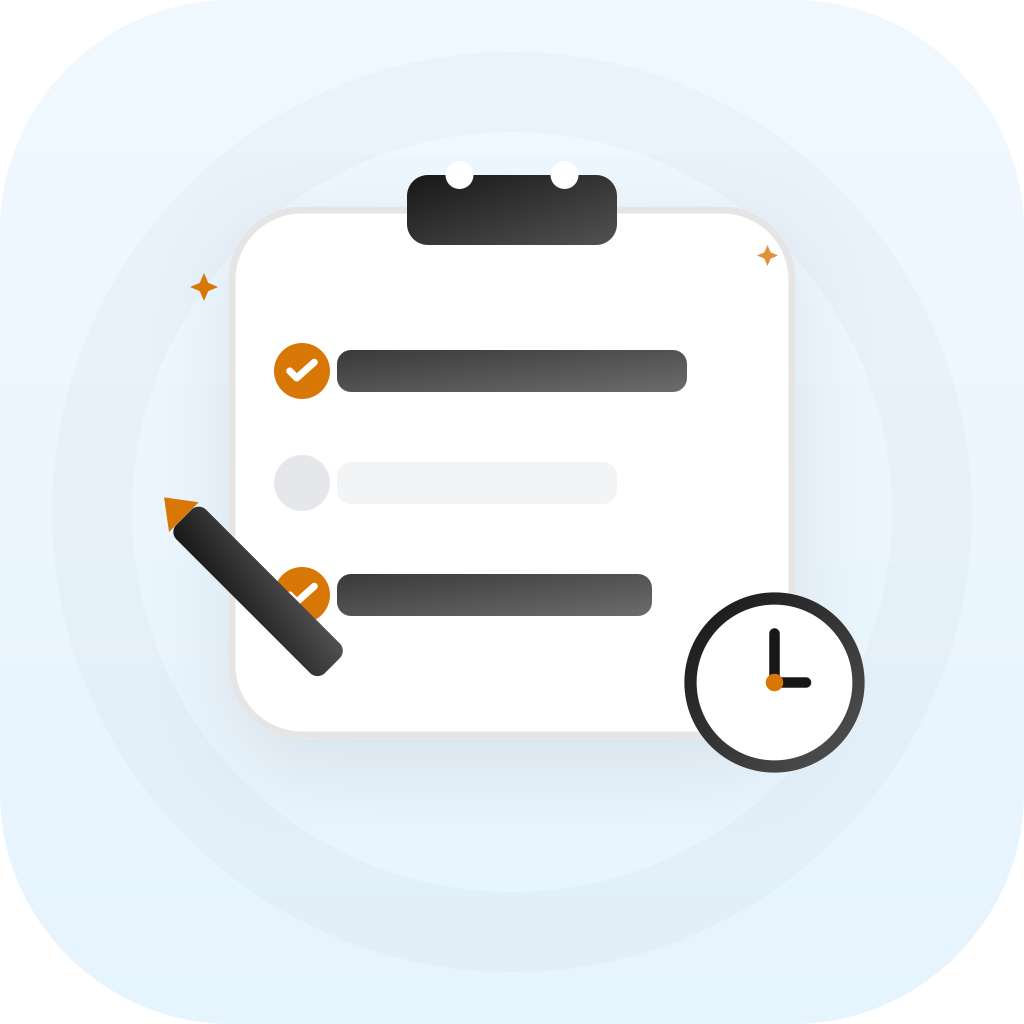
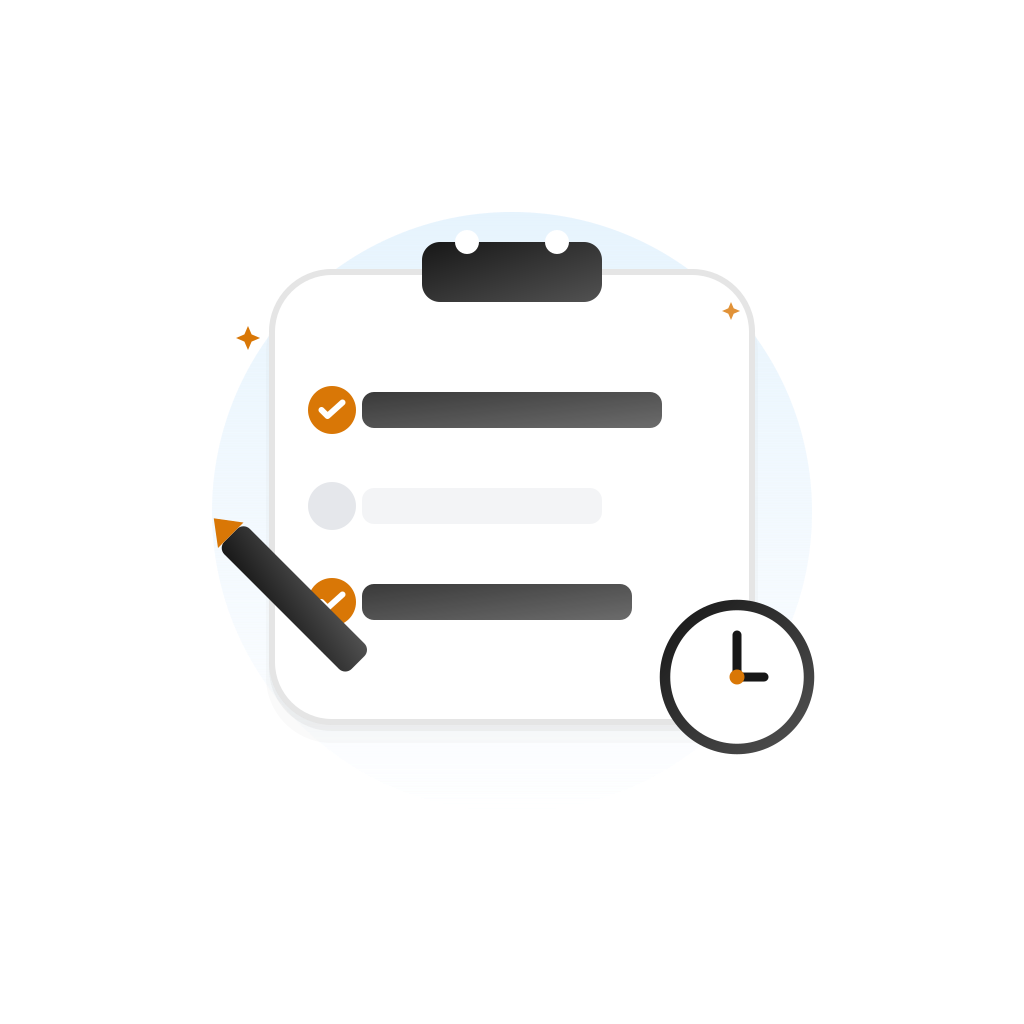
feat: implement cross-platform color scheme hook and custom animated tab bar UI

diff --git a/app/(tabs)/explore/index.tsx b/app/(tabs)/explore/index.tsx
@@ -8,21 +8,27 @@ import { AnimatedReveal } from '@/components/ui/animated-reveal';
 const EXPLORE_FEATURES = [
   {
     id: '1',
-    title: 'Modern Routing',
-    description: 'Navigate seamlessly between screens with file-based routing.',
-    icon: 'house.fill',
+    title: 'Smart Task Organization',
+    description: 'Organize your workflow using subtasks, color-coded categories, and flexible status tracking.',
+    icon: 'list.bullet',
   },
   {
     id: '2',
-    title: 'Cross-Platform',
-    description: 'One codebase for iOS, Android, and Web with native performance.',
-    icon: 'paperplane.fill',
+    title: 'Productivity Analytics',
+    description: 'Visualize your progress over time with completion rates and visual activity charts.',
+    icon: 'chart.bar.fill',
   },
   {
     id: '3',
-    title: 'Theme Aware',
-    description: 'Full support for light and dark modes out of the box.',
-    icon: 'list.bullet',
+    title: 'Interactive Dashboard',
+    description: 'Stay on top of your daily schedule with a real-time clock, quick task summaries, and status badges.',
+    icon: 'house.fill',
+  },
+  {
+    id: '4',
+    title: 'Seamless Personalization',
+    description: 'Customize your profile, configure preferences, and switch smoothly between dark and light modes.',
+    icon: 'person.fill',
   },
 ] as const;
 

diff --git a/app/(tabs)/_components/custom-tab-bar.tsx b/app/(tabs)/_components/custom-tab-bar.tsx
@@ -10,6 +10,7 @@ import Animated, {
   withSpring
 } from 'react-native-reanimated';
 import * as Haptics from 'expo-haptics';
+import { useSafeAreaInsets } from 'react-native-safe-area-context';
 
 export const TABS = [
   { name: 'analytics/index', label: 'Stats',   icon: 'chart.bar.fill'  },
@@ -270,7 +271,8 @@ const TabItem = React.memo(({ route, focused, tabInfo, theme, colorScheme, onPre
 
 export function CustomTabBar({ state, descriptors, navigation }: any) {
   const { colorScheme } = useColorScheme();
-  const theme = THEME[colorScheme];
+  const theme = THEME[colorScheme] || THEME.light;
+  const insets = useSafeAreaInsets();
 
   const doNav = useCallback((routeName: string, routeKey: string, focused: boolean) => {
     const ev = navigation.emit({ type: 'tabPress', target: routeKey, canPreventDefault: true });
@@ -289,14 +291,14 @@ export function CustomTabBar({ state, descriptors, navigation }: any) {
     <View
       pointerEvents="box-none"
       className="absolute bottom-0 left-0 right-0 bg-transparent z-50"
-      style={{ height: SHELL_H }}
+      style={{ height: SHELL_H + insets.bottom }}
     >
 
       {/* ── FLOATING CIRCLE ─────────────────────────────────────────────── */}
       <View
         pointerEvents="box-none"
         className="absolute left-0 right-0 items-center z-30"
-        style={{ bottom: CIRCLE_BOTTOM }}
+        style={{ bottom: CIRCLE_BOTTOM + insets.bottom }}
       >
         {/* OUTER RING — bg-secondary, separation border, shadowless flat design */}
         <View
@@ -319,7 +321,13 @@ export function CustomTabBar({ state, descriptors, navigation }: any) {
       {/* ── TAB BAR ─────────────────────────────────────────────────────── */}
       <View
         className="absolute bottom-0 left-0 right-0 flex-row bg-secondary border-t border-l border-r border-border z-10"
-        style={styles.tabContainer}
+        style={[
+          styles.tabContainer,
+          {
+            height: BAR_H + insets.bottom,
+            paddingBottom: insets.bottom,
+          }
+        ]}
       >
         {state.routes.map((route: any, index: number) => {
           const focused = state.index === index;
@@ -364,7 +372,7 @@ const styles = StyleSheet.create({
   tabLabel: {
     fontSize: 10,
     letterSpacing: 0.2,
-    marginTop: 2, // Snug vertical spacing for premium look
+    marginTop: 2, 
   },
   centerPressable: {
     width: CIRCLE_D,

diff --git a/hooks/use-color-scheme.web.ts b/hooks/use-color-scheme.web.ts
@@ -1,8 +1,10 @@
 import { useEffect, useState } from 'react';
 import { useColorScheme as useRNColorScheme } from 'react-native';
+import { useColorScheme as useNativewindColorScheme } from 'nativewind';
 
 /**
  * To support static rendering, this value needs to be re-calculated on the client side for web
+ * and must conform to the same object interface { colorScheme, setColorScheme, toggleColorScheme }
  */
 export function useColorScheme() {
   const [hasHydrated, setHasHydrated] = useState(false);
@@ -11,11 +13,16 @@ export function useColorScheme() {
     setHasHydrated(true);
   }, []);
 
-  const colorScheme = useRNColorScheme();
+  const { colorScheme, setColorScheme, toggleColorScheme } = useNativewindColorScheme();
+  const deviceColorScheme = useRNColorScheme();
 
-  if (hasHydrated) {
-    return colorScheme;
-  }
+  const activeColorScheme = (colorScheme === 'light' || colorScheme === 'dark')
+    ? colorScheme
+    : (deviceColorScheme === 'dark' ? 'dark' : 'light');
 
-  return 'light';
+  return {
+    colorScheme: hasHydrated ? activeColorScheme : 'light',
+    setColorScheme,
+    toggleColorScheme,
+  };
 }

diff --git a/hooks/use-color-scheme.ts b/hooks/use-color-scheme.ts
@@ -1,9 +1,16 @@
 import { useColorScheme as useNativewindColorScheme } from 'nativewind';
+import { useColorScheme as useDeviceColorScheme } from 'react-native';
 
 export function useColorScheme() {
   const { colorScheme, setColorScheme, toggleColorScheme } = useNativewindColorScheme();
+  const deviceColorScheme = useDeviceColorScheme();
+
+  const activeColorScheme = (colorScheme === 'light' || colorScheme === 'dark')
+    ? colorScheme
+    : (deviceColorScheme === 'dark' ? 'dark' : 'light');
+
   return {
-    colorScheme: colorScheme ?? 'light',
+    colorScheme: activeColorScheme,
     setColorScheme,
     toggleColorScheme,
   };

diff --git a/app/(tabs)/explore/_components/feature-card.tsx b/app/(tabs)/explore/_components/feature-card.tsx
@@ -12,12 +12,12 @@ interface FeatureCardProps {
 export function FeatureCard({ title, description, icon }: FeatureCardProps) {
   return (
     <Card className="border-none bg-card rounded-[32px] p-2 shadow-sm shadow-black/5 overflow-hidden gap-0">
-      <CardHeader className="gap-0 py-2 px-3">
-        <View className="bg-secondary/50 w-11 h-11 rounded-full items-center justify-center mb-1">
+      <CardHeader className="gap-0 py-3.5 px-4">
+        <View className="bg-secondary/50 w-11 h-11 rounded-full items-center justify-center mb-3">
           <IconSymbol size={22} name={icon as any} color="gray" />
         </View>
-        <CardTitle className="text-xl font-bold tracking-tight text-foreground">{title}</CardTitle>
-        <CardDescription className="text-sm leading-5 -mt-0.5">
+        <CardTitle className="text-xl font-bold tracking-tight text-foreground mb-1.5">{title}</CardTitle>
+        <CardDescription className="text-sm leading-5">
           {description}
         </CardDescription>
       </CardHeader>

diff --git a/app/(tabs)/explore/_components/explore-header.tsx b/app/(tabs)/explore/_components/explore-header.tsx
@@ -12,7 +12,7 @@ export function ExploreHeader() {
           Explore
         </Text>
         <Text className="text-muted-foreground mt-0.5">
-          Discover the possibilities.
+          Discover features to optimize your productivity.
         </Text>
       </View>
     </View>

diff --git a/app/(tabs)/explore/_components/get-started-card.tsx b/app/(tabs)/explore/_components/get-started-card.tsx
@@ -7,7 +7,7 @@ export function GetStartedCard() {
   return (
     <Card className="border-none bg-muted/30 rounded-[32px] p-6 mt-4 items-center gap-4">
       <CardTitle className="text-lg font-bold text-center text-foreground">
-        Ready to build something amazing?
+        Ready to master your schedule?
       </CardTitle>
       <Button className="w-full h-12 rounded-xl shadow-lg shadow-primary/10">
         <Text className="font-bold">Get Started Now</Text>